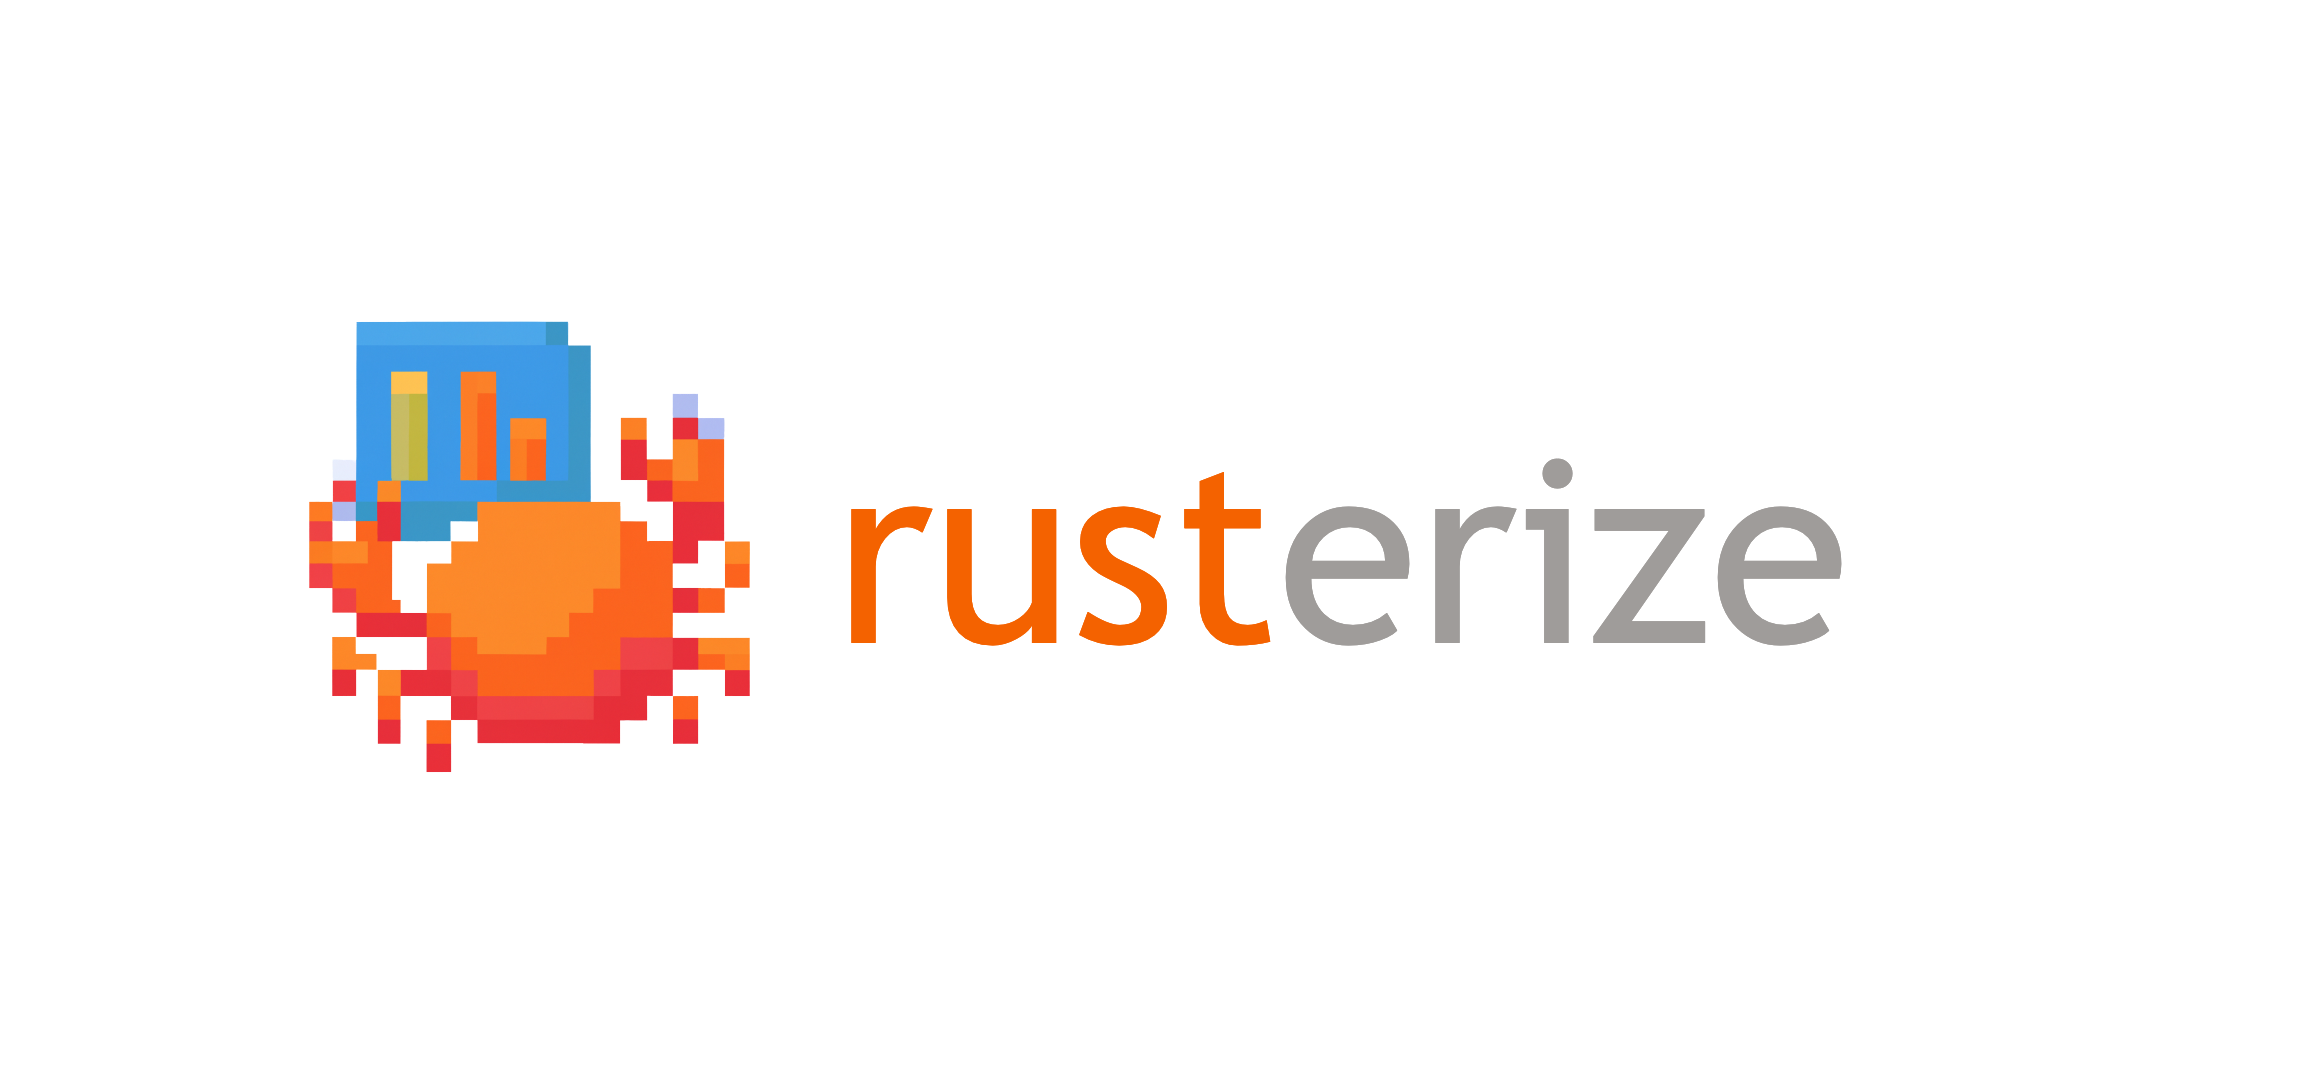
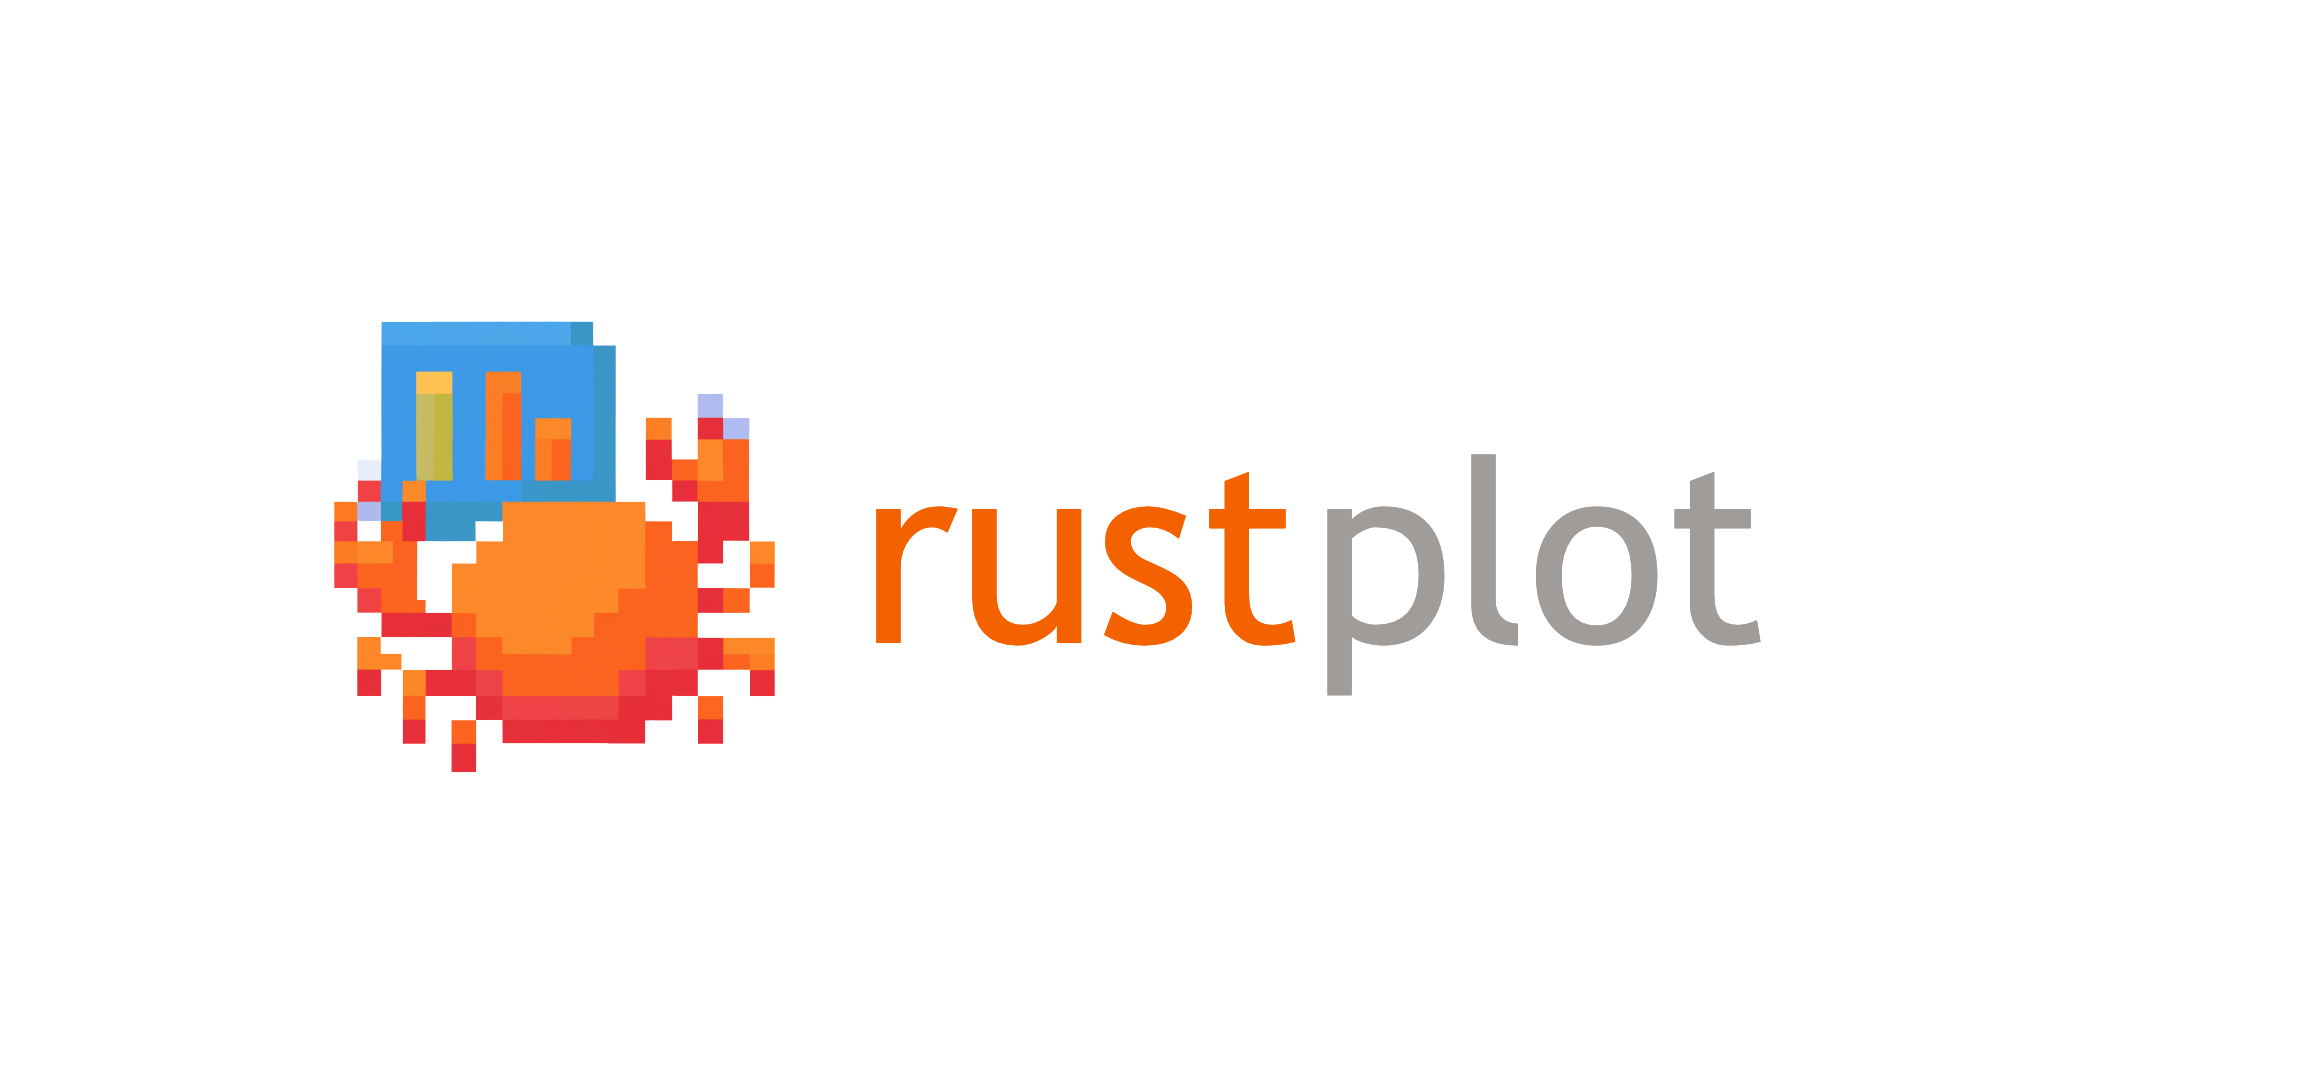
new name again that's actually more useful

Changed region(s): [[0.3704, 0.4278, 0.8026, 0.6417], [0.1235, 0.3056, 0.3396, 0.7333]]

diff --git a/src/lib.rs b/src/lib.rs
@@ -1,3 +1,37 @@
+//! # Rustplot: *<small>Build informative graphs in Rust</small>*
+//!
+//! Rustplot is a tool to build informative graphs in Rust. rustplot is built entirely from the ground up completely
+//! in Rust! It aims to interface will Rust data types as well as the [polars](https://crates.io/crates/polars) crate.
+//! 
+//! ## Quickstart: Quickly building a Scatter Graph
+//! To showcase how easy it is to use rustplot, we'll build a scatter graph, comparing what grades students achieved
+//! in an exam conducted when they're 15/16 (GCSE) and an exam, conducted when they're 17/18 (IB).
+//! ```rust
+//! use rustplot::{error::ChartResult, charts::scatter::ScatterGraph};
+//! 
+//! # fn example() -> ChartResult<()> {
+//! // first we'll generate some random data for this example
+//! let mut data = vec![];
+//! let mut rng = rand::thread_rng();
+//! for _ in 0..100 {
+//!     let x = rng.gen_range(1.0..9.0);
+//!     let y = rng.gen_range(1.0..7.0);
+//!     data.push((x, y));
+//! }
+//! 
+//! // now we'll actually build the graph
+//! ScatterGraph::build()
+//!     .set_title("GCSE vs IB Grades") // set a title for your graph
+//!     .set_axis_text("GCSE Grades", "IB Grades") // set some text describing each axis
+//!     .load_data(data) // load data
+//!     .draw("cool-graph.png")?; // draw and save your graph
+//! # Ok(())
+//! # }
+//! ```
+//! 
+//! The following code should generate a graph that looks something like this (keep in mind, your data positions may differ)
+//! ![example graph](https://raw.githubusercontent.com/justanotherbyte/rustplot/main/tests/scatter.png)
+
 pub mod charts;
 pub mod error;
 

diff --git a/src/charts/scatter.rs b/src/charts/scatter.rs
@@ -1,3 +1,5 @@
+//! Scatter Graph implementation
+
 use std::collections::HashMap;
 
 use image::{RgbImage, Rgb, imageops};
@@ -7,6 +9,7 @@ use rusttype::{Font, Scale};
 use crate::error::ChartResult;
 use super::random_rgb;
 
+/// A struct that aids in building scatter graphs.
 pub struct ScatterGraph<'a> {
     title: &'a str,
     x_axis_text: &'a str,
@@ -30,10 +33,13 @@ impl<'a> Default for ScatterGraph<'a> {
 }
 
 impl<'a> ScatterGraph<'a> {
+    /// Begin the process of building a scatter graph.
+    /// Initially returns the default value.
     pub fn build() -> Self {
         Self::default()
     }
 
+    /// Loads data and generates labels based on the data given.
     pub fn load_data<T>(mut self, data: Vec<(T, T)>) -> Self 
     where
         T: Into<f32>,
@@ -89,13 +95,14 @@ impl<'a> ScatterGraph<'a> {
         self
     }
 
-    /// Sets a title for the graph
+    /// Sets a title for the graph.
     pub fn set_title(mut self, title: &'a str) -> Self {
         self.title = title;
 
         self
     }
 
+    /// Set some text indicating what each respective axis represents.
     pub fn set_axis_text(mut self, x_axis_text: &'a str, y_axis_text: &'a str) -> Self {
         self.x_axis_text = x_axis_text;
         self.y_axis_text = y_axis_text;
@@ -117,6 +124,7 @@ impl<'a> ScatterGraph<'a> {
         self
     }
 
+    /// Draws the graph and saves to a file path.
     pub fn draw(self, path: &str) -> ChartResult<()> {
         // first step is to create a basic white image
         let mut canvas = RgbImage::new(500, 500);

diff --git a/src/charts/mod.rs b/src/charts/mod.rs
@@ -1,3 +1,5 @@
+//! A module holding the various types of graphs and charts
+
 pub mod scatter;
 
 use image::{Rgb, Rgba};

diff --git a/src/error.rs b/src/error.rs
@@ -1,3 +1,5 @@
+//! Holds the crate's `Result` type and error enum
+
 use image::ImageError;
 
 #[derive(Debug)]

diff --git a/README.md b/README.md
@@ -1,11 +1,11 @@
-<img src=".github/banner.png" alt="Rusterize">
+<img src=".github/banner.png" alt="Rustplot">
 
-## What is Rusterize?
-Rusterize is a project I'm working on to build good-looking charts in Rust. This crate is inspired by matplotlib, but doesn't necessarily aim to replace its capabilities.
+## What is Rustplot?
+Rustplot is a project I'm working on to build good-looking charts in Rust. This crate is inspired by matplotlib, but doesn't necessarily aim to replace its capabilities.
 
-Rusterize is a heavy WIP. Feel free to contribute if you have time.
+Rustplot is a heavy WIP. Feel free to contribute if you have time.
 
-### An example of what Rusterize is currently capable of:
+### An example of what Rustplot is currently capable of:
 
 #### Scatter Graphs
 
